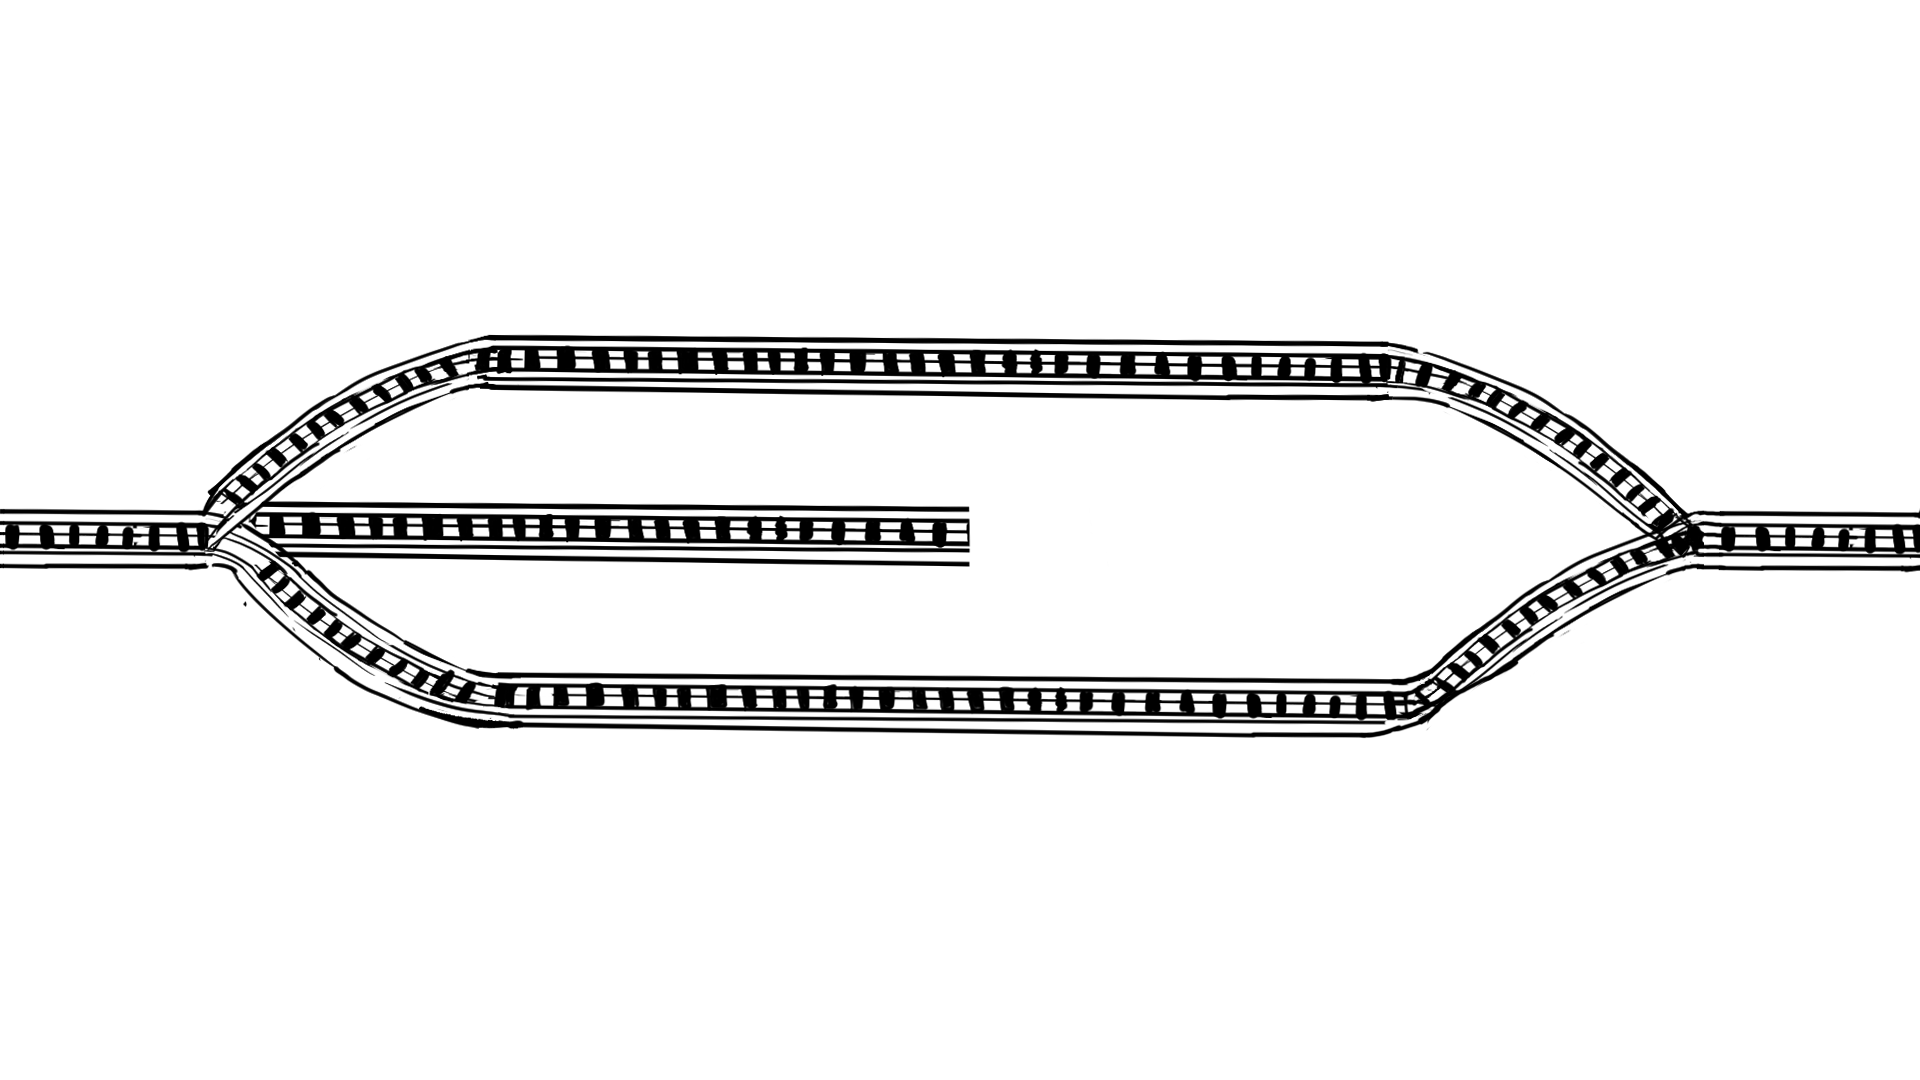
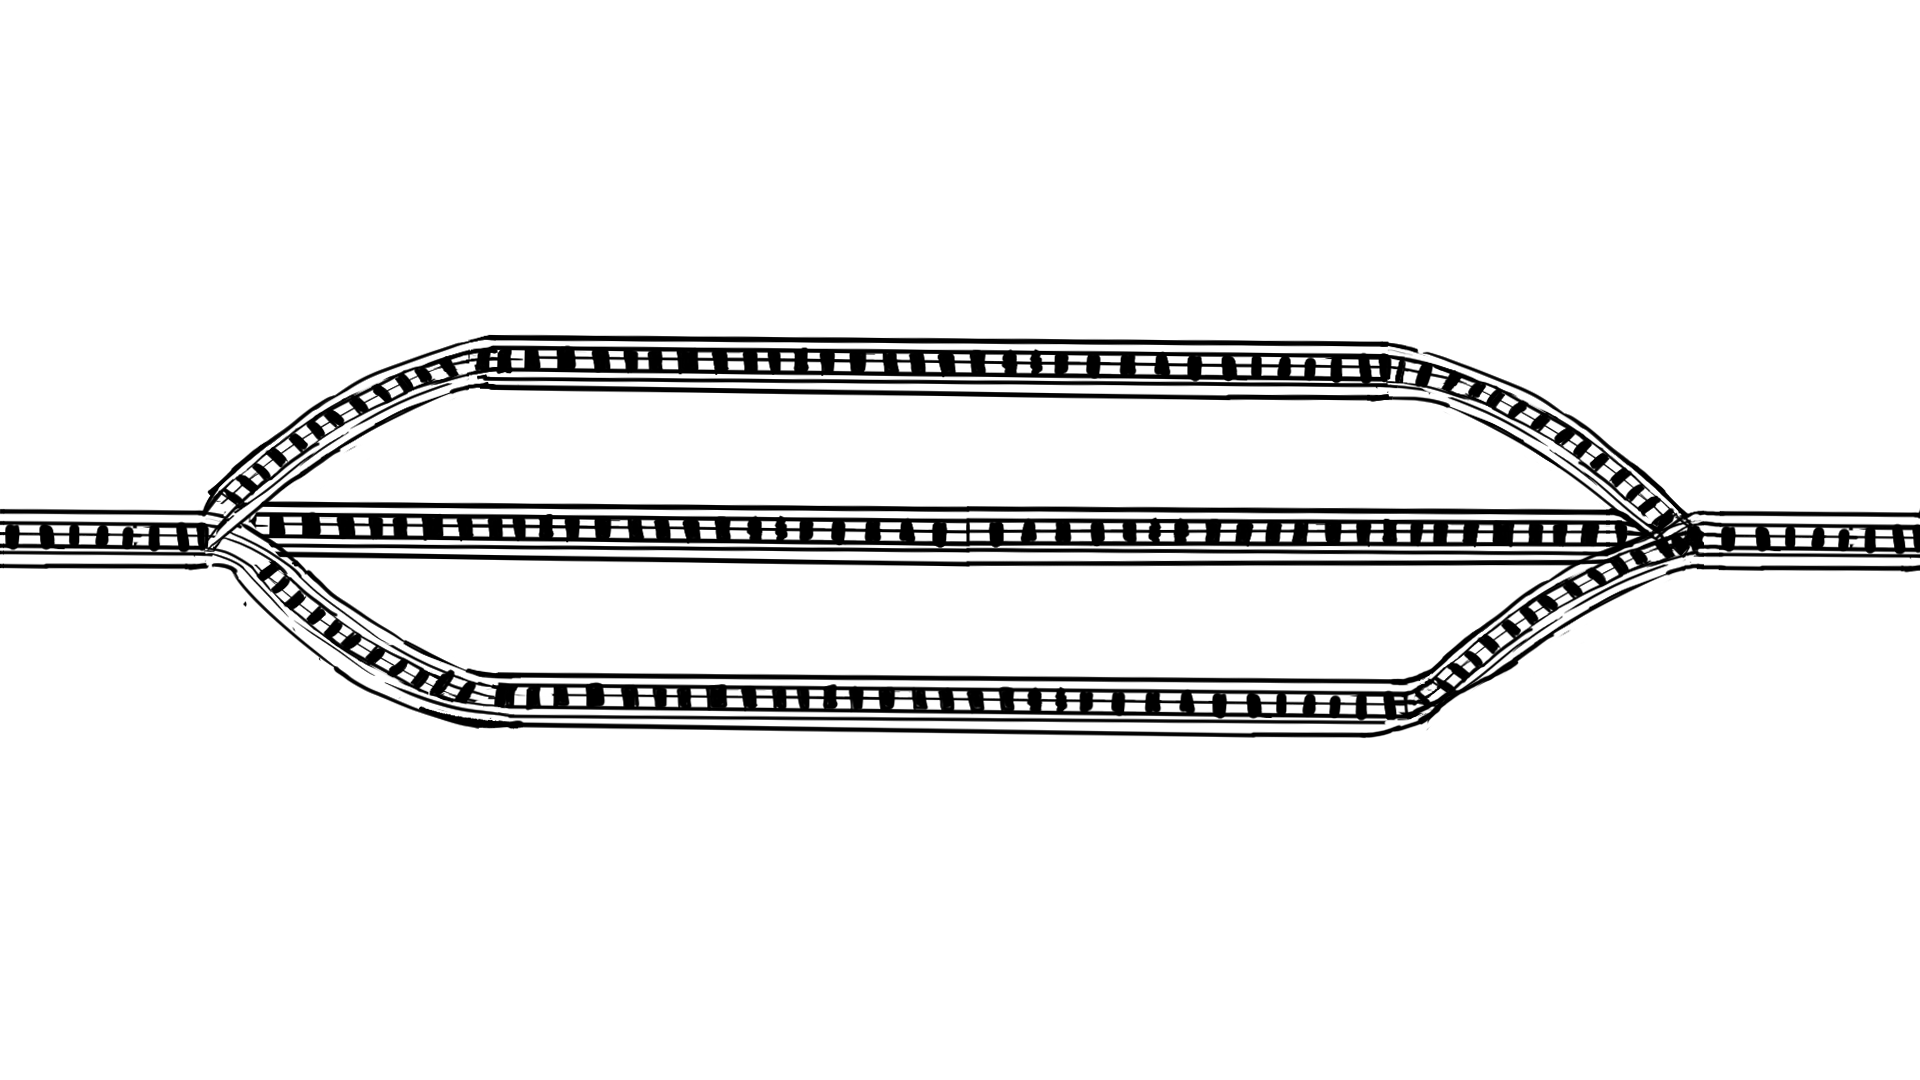
BUILD AQUI

Changed region(s): [[0.5, 0.4583, 0.875, 0.55]]

diff --git a/Assets/Scripts/ScreenEffects.cs b/Assets/Scripts/ScreenEffects.cs
@@ -28,6 +28,7 @@ public class ScreenEffects : MonoBehaviour
     }
     private void Start()
     {
+        Time.timeScale = 1f; 
         // Asegurarse de que el texto esté oculto al inicio
         if (deathScoreCanvasGroup != null)
         {
@@ -104,7 +105,7 @@ public class ScreenEffects : MonoBehaviour
 
         // Guardar la puntuación y volver al menú
         contadorOvejas.TerminarRun();
-
+        Time.timeScale = 1f;
         SceneManager.LoadScene("MenuInicial");
         Time.timeScale = 1f;
     }

diff --git a/Assets/Scripts/ContadorOvejas.cs b/Assets/Scripts/ContadorOvejas.cs
@@ -12,8 +12,8 @@ public class ContadorOvejas : MonoBehaviour
 
     void Start()
     {
+        Time.timeScale=1;
         ActualizarTexto();
-        Time.timeScale=Time.unscaledTime;
     }
 
     public void ActualizarTexto()

diff --git a/Assets/Scripts/MenuInicial.cs b/Assets/Scripts/MenuInicial.cs
@@ -5,7 +5,7 @@ public class MenuInicial : MonoBehaviour
 {
     public void Jugar()
     {
-        SceneManager.LoadScene("Main");
+        SceneManager.LoadScene("Main 1");
     }
 
     public void Creditos()

diff --git a/Assets/Scripts/GameManager.cs b/Assets/Scripts/GameManager.cs
@@ -63,7 +63,7 @@ public class GameManager : MonoBehaviour
 
     void Start()
     {
-      
+      Time.timeScale = 1f;
         nuevaDecision = decision;
         Debug.Log(decision);
     }

diff --git a/Assets/Scripts/ForceTimeScale.cs b/Assets/Scripts/ForceTimeScale.cs
@@ -1,0 +1,10 @@
+using UnityEngine;
+
+[DefaultExecutionOrder(-1000)]
+public class ForceTimeScale : MonoBehaviour
+{
+    void Awake()
+    {
+        Time.timeScale = 1f;
+    }
+}
